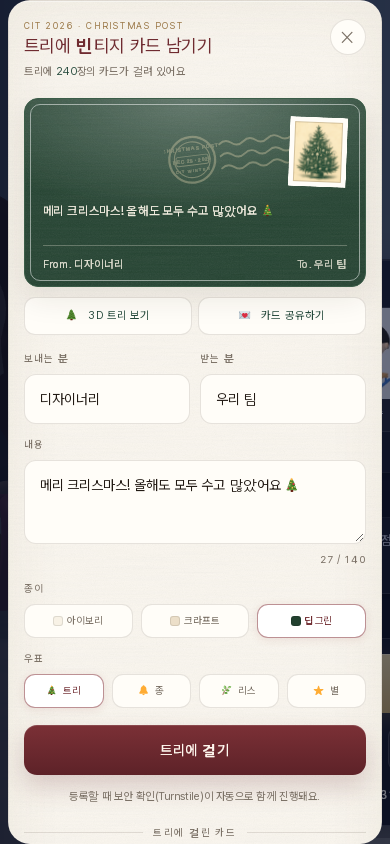
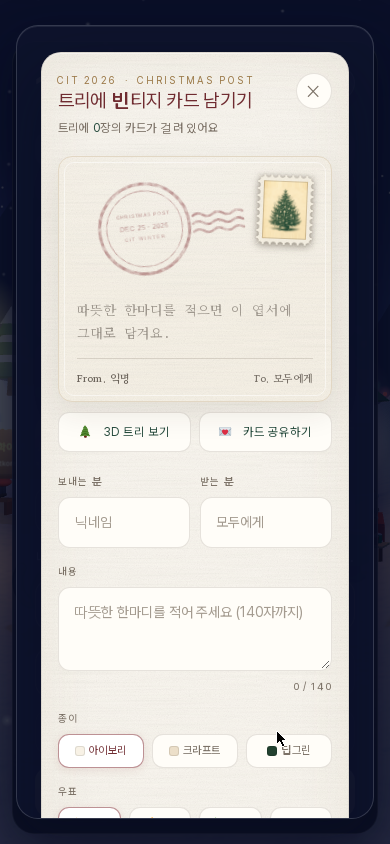
design(polaroid): 정사각 촬영 화각을 넓혀 가장자리 인물이 잘리지 않게

diff --git a/index.html b/index.html
@@ -2373,7 +2373,7 @@ async function takePolaroid() { // 오두막 앞에 네 캐릭터를 모아 한 
     meshes.forEach((m, i) => { const [u, ds] = spots[i] || [0, 0]; wpos(2069.4 + ds, u, 0.02, m.position); m.rotation.set(0, -th + (i === 0 ? 0.08 : i === 3 ? -0.08 : 0), 0); });
     const cp = new THREE.Vector3(), cl = new THREE.Vector3();
     wpos(2059.8, 0.35, 3.55, cp); wpos(2073.2, -0.35, 2.85, cl);
-    camera.position.copy(cp); camera.lookAt(cl); camera.fov = 68;
+    camera.position.copy(cp); camera.lookAt(cl); camera.fov = 73;
     src = grab(1200, 1200)[0];   // 정사각 폴라로이드 사진 창에 맞춰 정사각으로 촬영
   } catch (e) { src = null; }
   finally {
